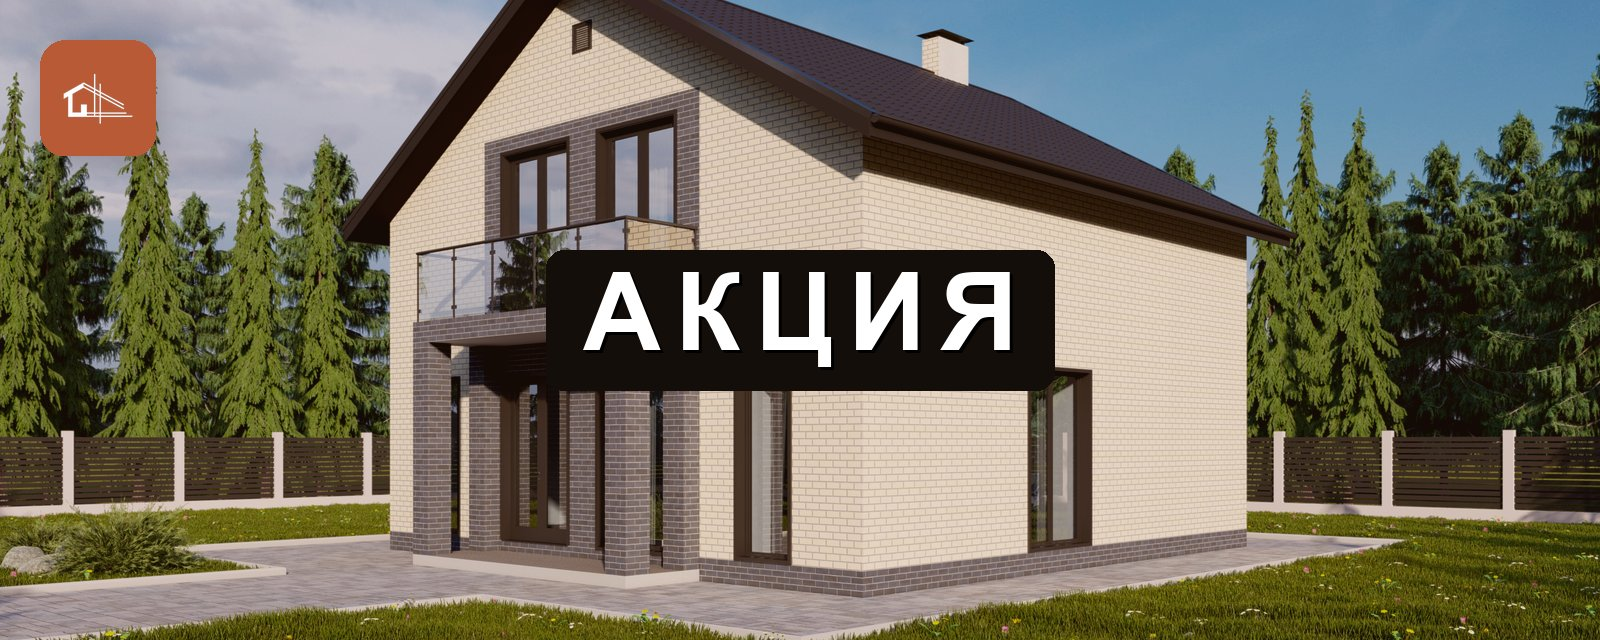
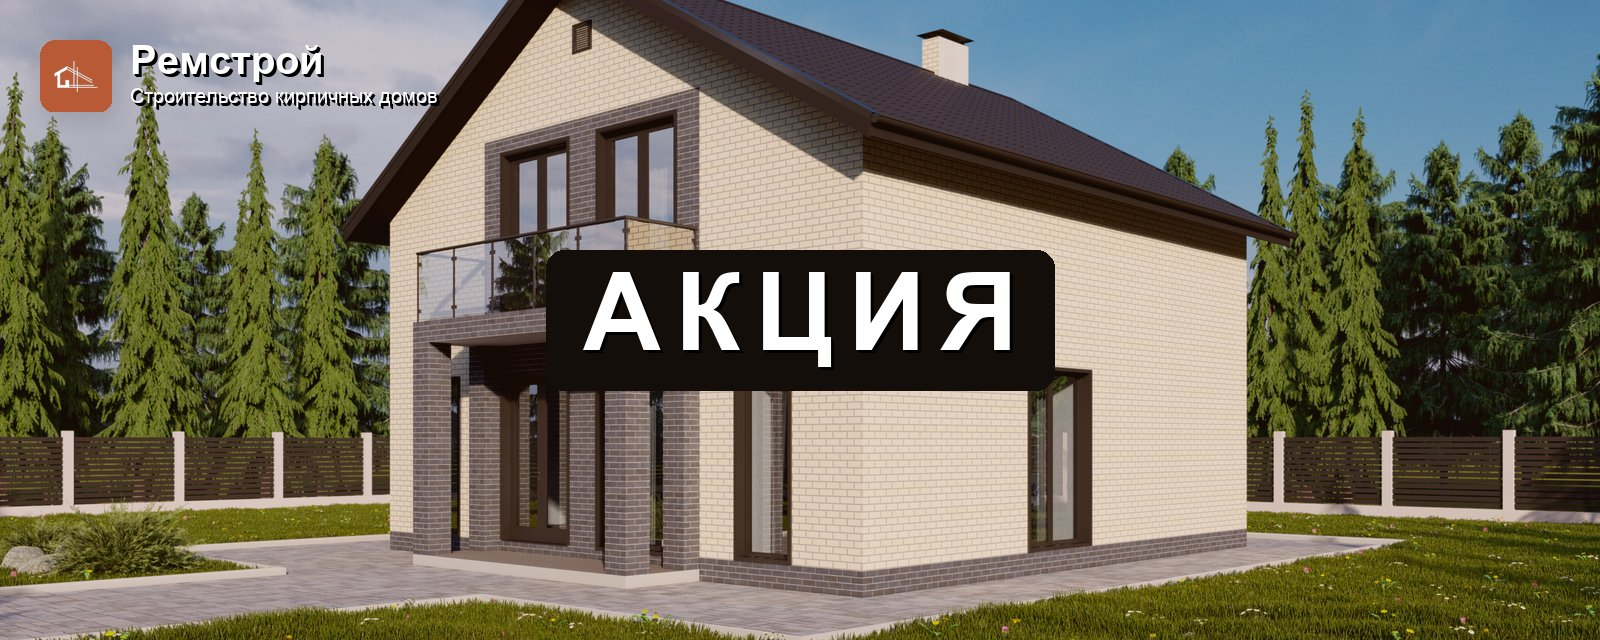
fix(promotions): уменьшить лого на баннерах, добавить «Ремстрой» + тег-лайн
По просьбе — лого-плашка меньше (116px → 72px), рядом с ней «Ремстрой»
жирным и «Строительство кирпичных домов» под ним, как в og.png.

Changed region(s): [[0.0, 0.0625, 0.2812, 0.25], [0.0, 0.0625, 0.0312, 0.0938]]

diff --git a/backend/scripts/generate_promo_banners.py b/backend/scripts/generate_promo_banners.py
@@ -2,11 +2,11 @@
 фото дома, как оно выведено в каталоге (первое по полю order).
 
 Cover-resize до 1600×640 (широкий формат баннера) + лёгкая фирменная
-тонировка, фирменный лого-плашка слева сверху (как в og.png, но
-собрана из прозрачного logo.png — чтобы не тащить светлый фон og.png)
-и крупная надпись «АКЦИЯ» по центру с тенью — чтобы файл выглядел
-завершённым рекламным баннером сам по себе, независимо от того, что
-поверх него ещё рисует React (.promo-banner-overlay) на сайте.
+тонировка, компактный брендовый уголок слева сверху (лого-плашка +
+«Ремстрой» / «Строительство кирпичных домов», как в og.png, но из
+прозрачного logo.png — чтобы не тащить светлый фон og.png) и крупная
+надпись «АКЦИЯ» по центру с тенью — чтобы файл выглядел завершённым
+рекламным баннером сам по себе.
 
 Запуск: cd backend && .venv/bin/python scripts/generate_promo_banners.py
 """
@@ -32,6 +32,7 @@ W, H = 1600, 640
 BRAND = (184, 90, 53)
 
 FONT_BOLD = "/System/Library/Fonts/Supplemental/Arial Bold.ttf"
+FONT_REG = "/System/Library/Fonts/Supplemental/Arial.ttf"
 
 # out filename -> build slug
 TARGETS = {
@@ -85,6 +86,40 @@ def make_logo_plate(size: int) -> Image.Image:
                 px[x, y] = (255, 255, 255, a)
     plate.paste(logo, (pad, pad), logo)
     return plate
+
+
+def draw_text_shadow(draw, xy, text, font, fill):
+    for ox, oy in ((2, 2), (3, 3)):
+        draw.text((xy[0] + ox, xy[1] + oy), text, fill=(0, 0, 0, 130), font=font)
+    draw.text(xy, text, fill=fill, font=font)
+
+
+def draw_brand_lockup(img: Image.Image, xy, logo_h: int):
+    """Лого + «Ремстрой» / «Строительство кирпичных домов» рядом —
+    компактный брендовый уголок, как в og.png, но меньше и с тенью
+    вместо светлой подложки (чтобы легко читалось на любом фото)."""
+    draw = ImageDraw.Draw(img, "RGBA")
+    title_font = ImageFont.truetype(FONT_BOLD, 40)
+    tagline_font = ImageFont.truetype(FONT_REG, 20)
+
+    title = "Ремстрой"
+    tagline = "Строительство кирпичных домов"
+
+    title_bbox = draw.textbbox((0, 0), title, font=title_font)
+    title_h = title_bbox[3] - title_bbox[1]
+    tagline_bbox = draw.textbbox((0, 0), tagline, font=tagline_font)
+    tagline_h = tagline_bbox[3] - tagline_bbox[1]
+
+    gap = 6
+    block_h = title_h + gap + tagline_h
+    text_x = xy[0]
+    text_top = xy[1] + (logo_h - block_h) / 2
+
+    title_y = text_top - title_bbox[1]
+    draw_text_shadow(draw, (text_x, title_y), title, title_font, (255, 255, 255, 255))
+
+    tagline_y = text_top + title_h + gap - tagline_bbox[1]
+    draw_text_shadow(draw, (text_x, tagline_y), tagline, tagline_font, (255, 255, 255, 225))
 
 
 def paste_with_shadow(base: Image.Image, layer: Image.Image, xy, blur=14, alpha=110):
@@ -146,10 +181,11 @@ def main():
         img = cover_resize(img, W, H)
         img = warm_tone(img).convert("RGBA")
 
-        logo_size = 116
+        logo_size = 72
         margin = 40
         plate = make_logo_plate(logo_size)
         paste_with_shadow(img, plate, (margin, margin))
+        draw_brand_lockup(img, (margin + logo_size + 18, margin), logo_size)
 
         draw_center_word(img, "АКЦИЯ")
 
